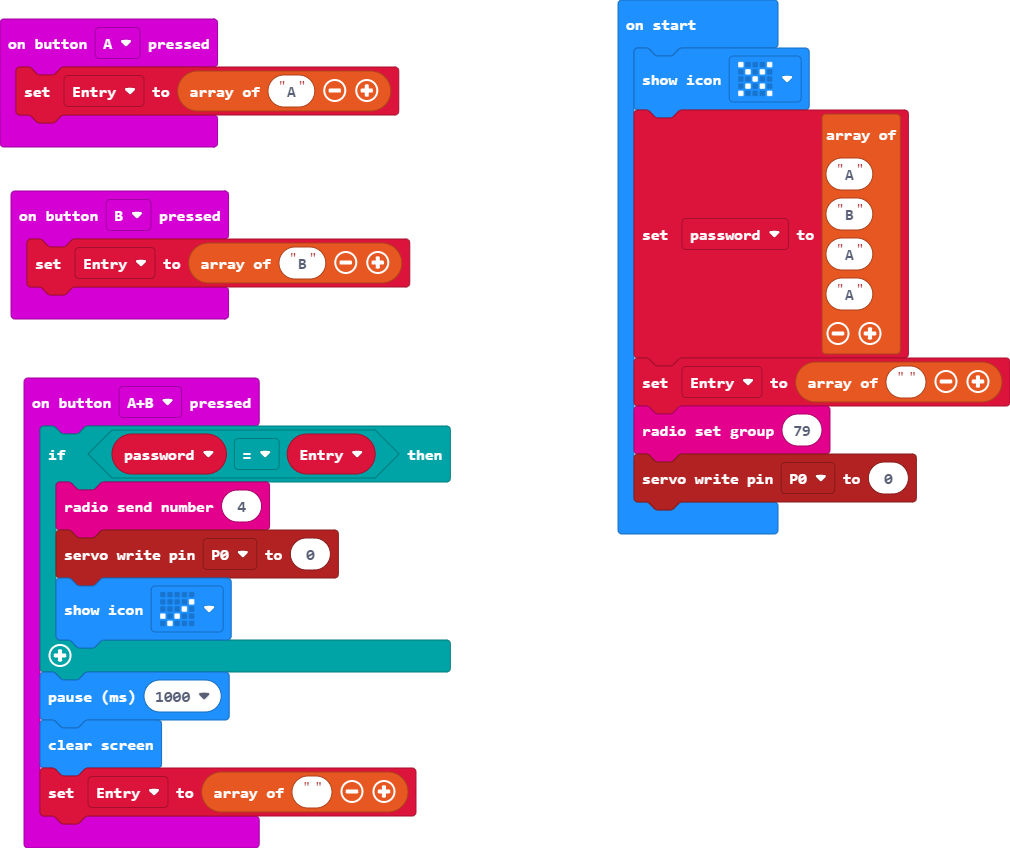
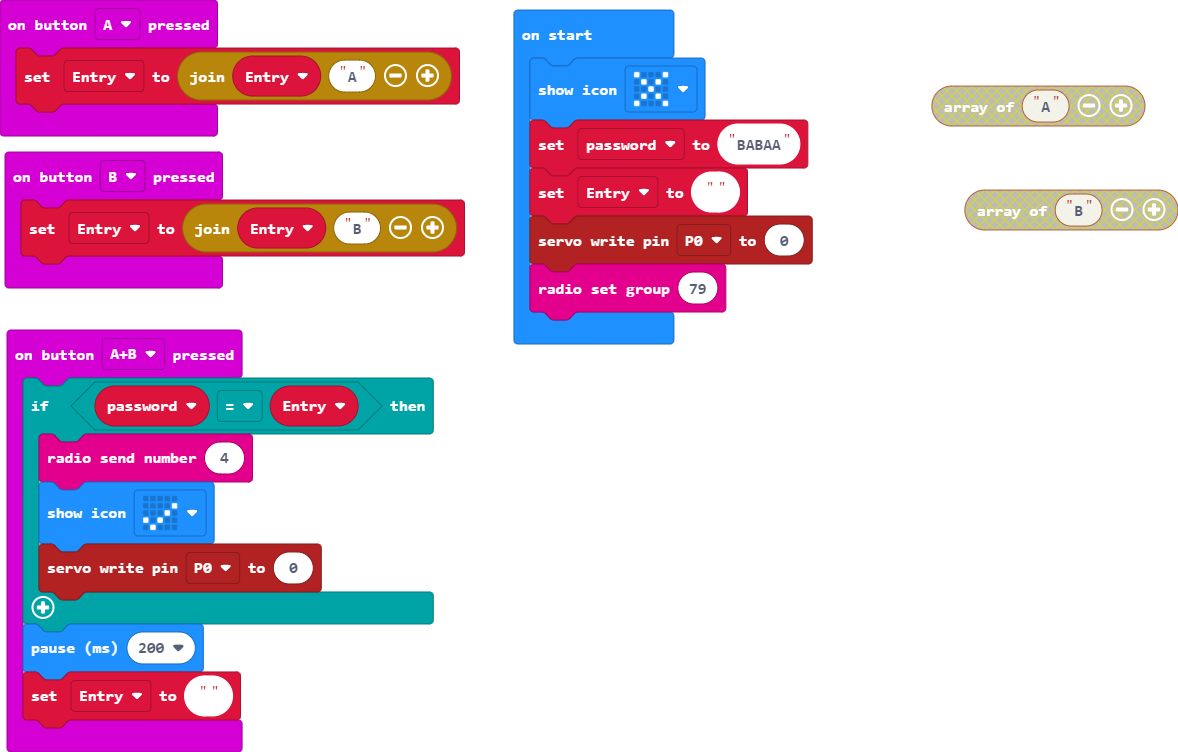
Update pxt.json, main.blocks, main.ts, main.py

diff --git a/main.py b/main.py
@@ -1,5 +1,5 @@
 input.onButtonPressed(Button.A, function () {
-    Entry = "" + Entry + "A"
+    password = Entry[0]
 })
 input.onButtonPressed(Button.AB, function () {
     if (password == Entry) {
@@ -8,15 +8,20 @@ input.onButtonPressed(Button.AB, function () {
         pins.servoWritePin(AnalogPin.P0, 0)
     }
     basic.pause(200)
-    Entry = ""
+    Entry = [""]
 })
 input.onButtonPressed(Button.B, function () {
-    Entry = "" + Entry + "B"
+    password = Entry[1]
 })
-let Entry = ""
-let password = ""
+let password: string[] = []
+let Entry: string[] = []
 basic.showIcon(IconNames.No)
-password = "BABAA"
-Entry = ""
+Entry = [""]
+password = [
+"A",
+"B",
+"A",
+"A"
+]
 pins.servoWritePin(AnalogPin.P0, 0)
 radio.setGroup(79)
